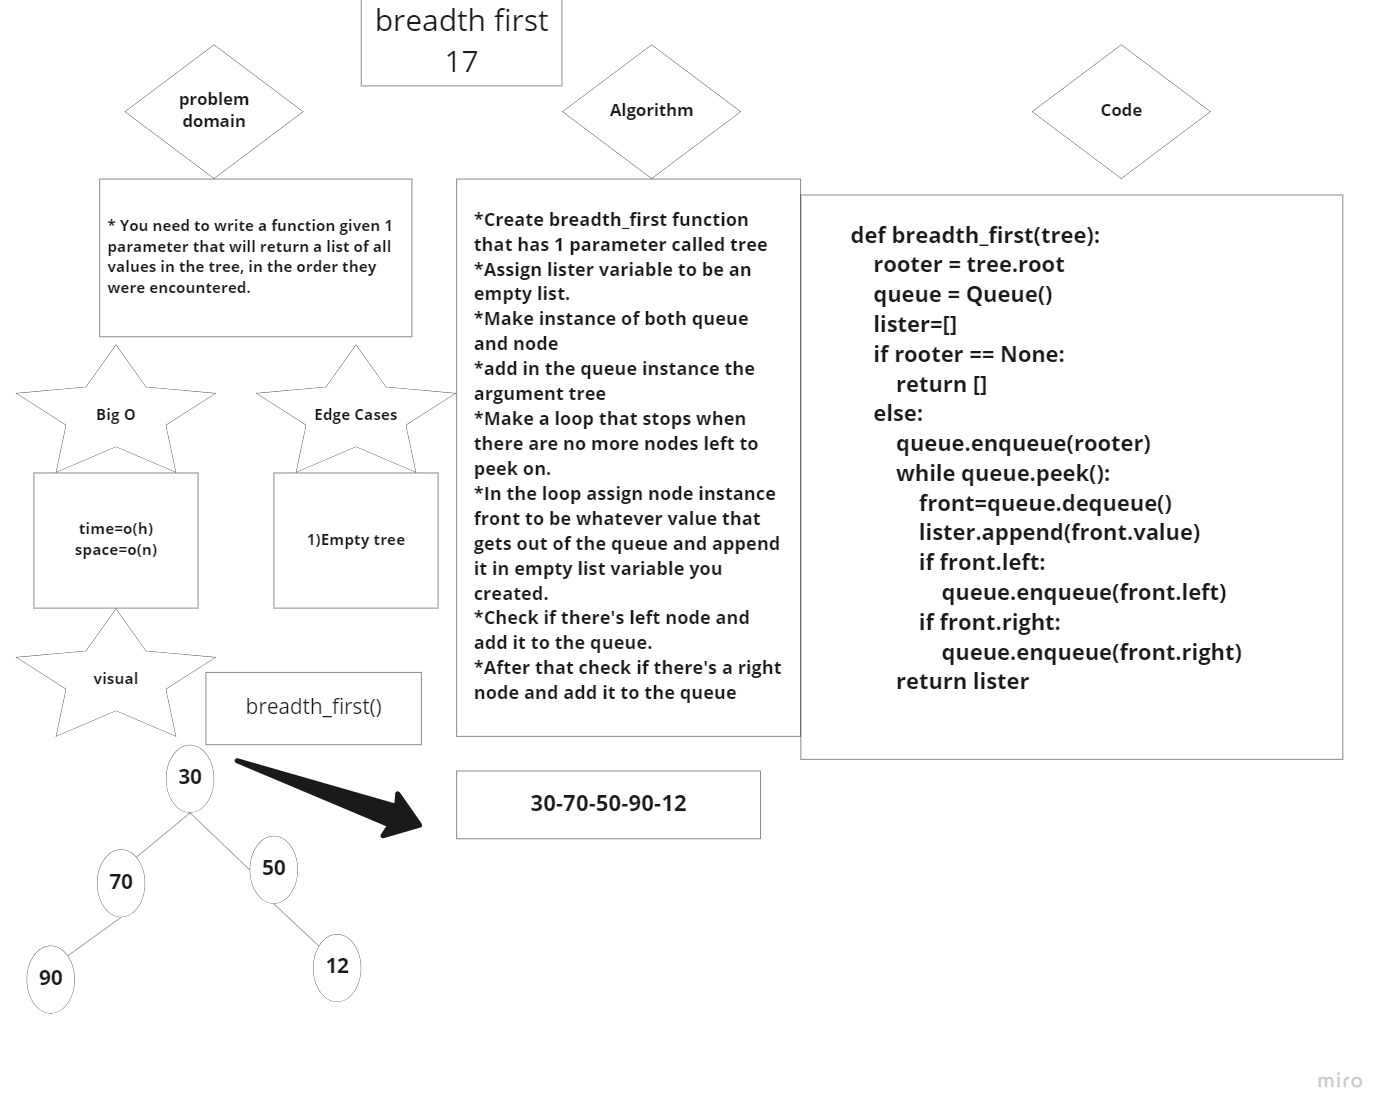
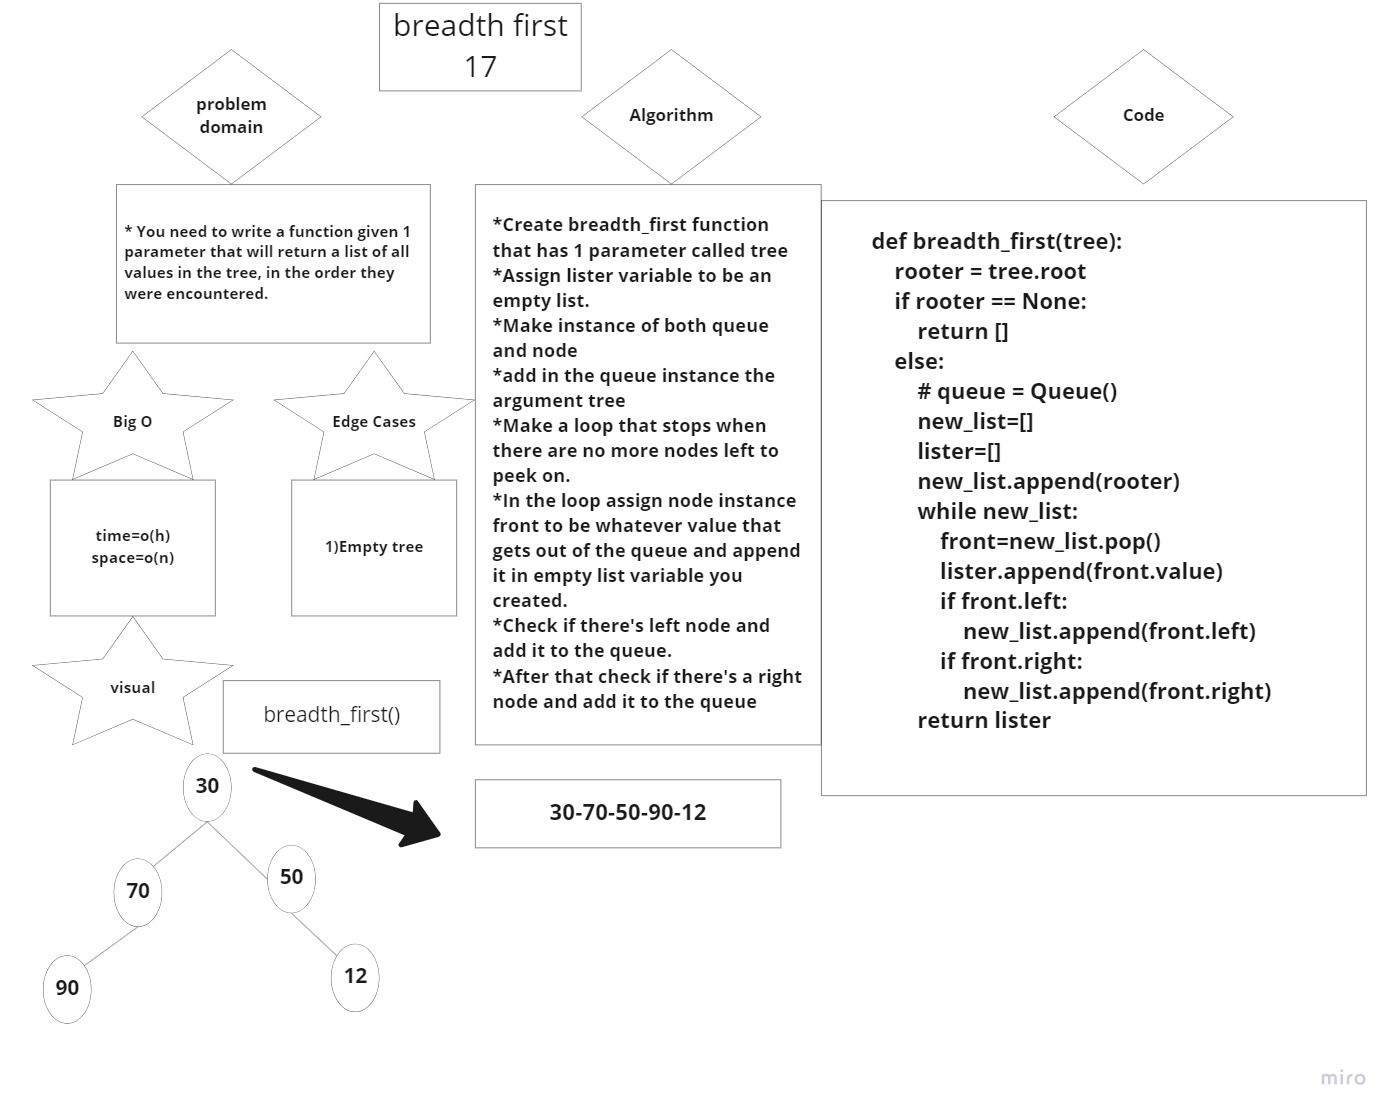
fix CC 17 breadth first function

diff --git a/trees/test_trees_15.py b/trees/test_trees_15.py
@@ -164,25 +164,30 @@ from trees.trees_15 import *
 
 
 
-# def test_breadth_first():
-#     tree = BinaryTree()
-#     node1=Node(1)
-#     node2=Node(2)
-#     node3=Node(3)
-#     node4=Node(4)
-#     node5=Node(5)
-#     node6=Node(6)
-#     node7=Node(7)
-#     tree.root=node1
-#     node1.left=node2
-#     node1.right=node3
-#     node2.left=node4
-#     node2.right=node5
-#     node3.left=node6
-#     node3.right=node7
-#     actual = tree.breadth_first()
-#     expected = 1234567
-#     assert actual==expected
+def test_breadth_first():
+    tree = BinaryTree()
+    node1=Node(2)
+    node2=Node(7)
+    node3=Node(5)
+    node4=Node(2)
+    node5=Node(6)
+    node6=Node(9)
+    node7=Node(5)
+    node8=Node(11)
+    node9=Node(4)
+    tree.root=node1
+    node1.left=node2
+    node1.right=node3
+    node2.left=node4
+    node2.right=node5
+    # node3.left=node6
+    node3.right=node6
+    node5.left=node7
+    node5.right=node8
+    node6.left=node9
+    actual = tree.breadth_first()
+    expected = [2,7,5,2,6,9,5,11,4]
+    assert actual==expected
 
 
 

diff --git a/trees/trees_15.py b/trees/trees_15.py
@@ -120,19 +120,20 @@ class BinaryTree:
     #     return lister        
     def breadth_first(tree):
         rooter = tree.root
-        queue = Queue()
-        lister=[]
         if rooter == None:
             return []
         else:    
-            queue.enqueue(rooter)
-            while queue.peek():
-                front=queue.dequeue()
+            # queue = Queue()
+            new_list=[]
+            lister=[]
+            new_list.append(rooter)
+            while new_list:
+                front=new_list.pop()
                 lister.append(front.value)
                 if front.left:
-                    queue.enqueue(front.left)
+                    new_list.append(front.left)
                 if front.right:
-                    queue.enqueue(front.right)
+                    new_list.append(front.right)
             return lister        
 
 
